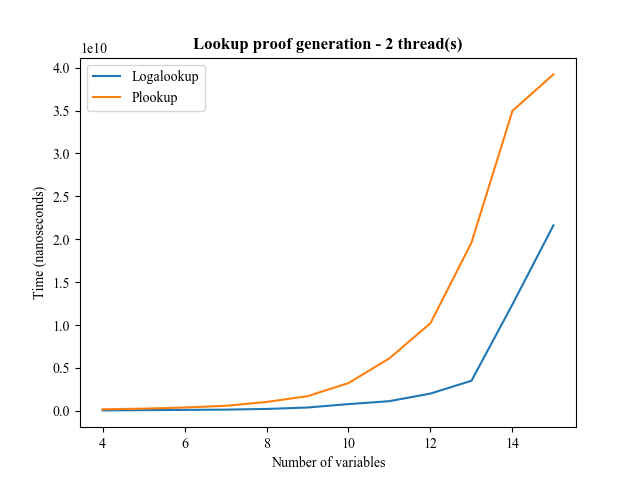
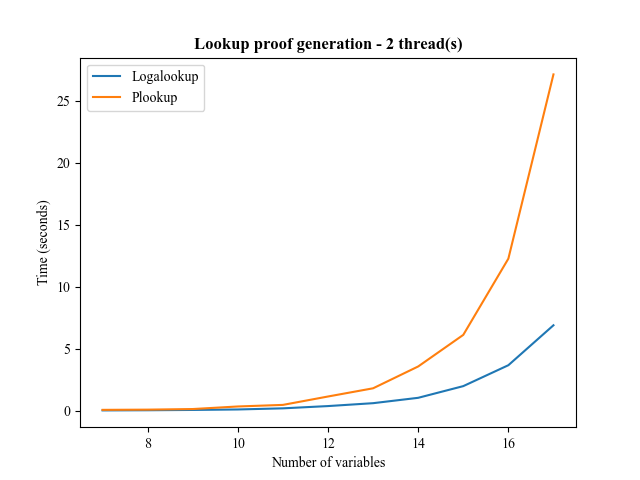
update plotter

diff --git a/scripts/plotter.py b/scripts/plotter.py
@@ -8,12 +8,18 @@ font = {'family': tnr}
 rc('font', **font)
 
 del fm.weight_dict['roman']
-fm._rebuild()
+# fm._rebuild()
 
-def get_Time (file):
+str_num_var = "Number of variables"
+
+def get_time (file, time_measure='nano'):
     lines = [list(map(int, line.split())) for line in file.split("\n")[:-1]]
     nv = [line[0] for line in lines]
     time_us = [line[1] for line in lines]
+    if time_measure == 'nano': 
+        time_us = [nano / 10**9 for nano in time_us]
+    elif time_measure == 'micro':
+        time_us = [micro / 10**6 for micro in time_us]
     return nv, time_us
     
 
@@ -21,31 +27,31 @@ def plot_comparison(num_threads, gate = "vanilla"):
     loga = open(f"hyperplonk/logalk {gate} threads {num_threads}.txt").read()
     plk = open(f"hyperplonk/plk {gate} threads {num_threads}.txt").read()
     
-    loga_nv, loga_time = get_Time (loga)
-    plk_nv, plk_time = get_Time (plk)
+    loga_nv, loga_time = get_time (loga, time_measure='micro')
+    plk_nv, plk_time = get_time (plk, time_measure='micro')
     plt.clf()
-    plt.title(f"SNARK + lookup proof generation - {num_threads} thread(s)", **font, fontweight='bold')
-    plt.ylabel("Time (microseconds)", **font)
-    plt.xlabel("Number of variables", **font)
+    plt.title(f"HyperPlonk with lookup proof generation - {num_threads} thread(s)", **font, fontweight='bold')
+    plt.ylabel("Time (seconds)", **font)  #micro before
+    plt.xlabel(str_num_var, **font)
     plt.xticks(fontname=tnr)
     plt.yticks(fontname=tnr)
     plt.plot(loga_nv, loga_time, label="Logalookup")
     plt.plot(plk_nv, plk_time, label="Plookup")
     plt.legend(prop=font_legend)
     
-    plt.savefig(f"plot-compare-{num_threads}-threads.png")
+    plt.savefig(f"plot-{gate}-compare-snark-{num_threads}-threads.png")
 
 def plot_multithread(threads, lk = "logalk", gate = "vanilla"):
     plt.clf()
     lk_str = "Logalookup" if lk == "logalk" else "Plookup"
-    plt.title(f"SNARK+{lk_str} proof generation - Multithread", **font, fontweight='bold')
-    plt.ylabel("Time (microseconds)", **font)
-    plt.xlabel("Number of variables", **font)
+    plt.title(f"HyperPlonk with {lk_str} proof generation - Multithread", **font, fontweight='bold')
+    plt.ylabel("Time (seconds)", **font)   #micro before
+    plt.xlabel(str_num_var, **font)
     plt.xticks(fontname=tnr)
     plt.yticks(fontname=tnr)
     for nt in threads:
-        file = open(f"hyperplonk/{lk} {gate} threads {nt}.txt").read()
-        nv, time = get_Time (file)
+        _file = open(f"hyperplonk/{lk} {gate} threads {nt}.txt").read()
+        nv, time = get_time (_file, time_measure='micro')
         plt.plot(nv, time, label=f"{nt} threads")
     plt.legend(prop=font_legend)
     plt.savefig(f"plot-multithread-{lk}.png")
@@ -54,12 +60,12 @@ def plot_comparison_lookup_subroutines(num_threads):
     loga = open(f"subroutines/logalk {num_threads} threads.txt").read()
     plk = open(f"subroutines/plk {num_threads} threads.txt").read()
     
-    loga_nv, loga_time = get_Time (loga)
-    plk_nv, plk_time = get_Time (plk)
+    loga_nv, loga_time = get_time (loga, time_measure='nano')
+    plk_nv, plk_time = get_time (plk, time_measure='nano')
     plt.clf()
     plt.title(f"Lookup proof generation - {num_threads} thread(s)", **font, fontweight='bold')
-    plt.ylabel("Time (nanoseconds)", **font)
-    plt.xlabel("Number of variables", **font)
+    plt.ylabel("Time (seconds)", **font)   #nano before
+    plt.xlabel(str_num_var, **font)
     plt.xticks(fontname=tnr)
     plt.yticks(fontname=tnr)
     plt.plot(loga_nv, loga_time, label="Logalookup")
@@ -72,20 +78,23 @@ def plot_multithread_lookup_subroutine(threads, lk = "logalk"):
     plt.clf()
     lk_str = "Logalookup" if lk == "logalk" else "Plookup"
     plt.title(f"{lk_str} subroutine proof generation - Multithread", **font, fontweight='bold')
-    plt.ylabel("Time (nanoseconds)", **font)
-    plt.xlabel("Number of variables", **font)
+    plt.ylabel("Time (seconds)", **font)  #nano before
+    plt.xlabel(str_num_var, **font)
     plt.xticks(fontname=tnr)
     plt.yticks(fontname=tnr)
     for nt in threads:
-        file = open(f"subroutines/{lk} {nt} threads.txt").read()
-        nv, time = get_Time (file)
+        _file = open(f"subroutines/{lk} {nt} threads.txt").read()
+        nv, time = get_time (_file, time_measure='nano')
         plt.plot(nv, time, label=f"{nt} threads")
     plt.legend(prop=font_legend)
     plt.savefig(f"plot-multithread-{lk}-subroutine.png")
 
-for nt in [1,2,4,8]:
-    plot_comparison(nt)
+for nt in [1,2,4,8,16]:
+    plot_comparison(nt, gate='vanilla')
+for nt in [1,2,4,8,16]:
+    plot_comparison(nt, gate='jellyfish')
 plot_multithread([1,2,4,8])
-for nt in [1,2,4,8]:
+for nt in [1,2,4,8,16]:
    plot_comparison_lookup_subroutines(nt)
 plot_multithread_lookup_subroutine([1,2,4,8])
+

diff --git a/subroutines/src/poly_iop/lookup/plookup_check/utils.rs b/subroutines/src/poly_iop/lookup/plookup_check/utils.rs
@@ -51,31 +51,37 @@ pub(super) fn compute_h<F: PrimeField>(
 }
 
 pub(super) fn get_primitive_polynomial(n: usize) -> Result<Vec<usize>, PolyIOPErrors> {
-    if !(2..=16).contains(&n) {
+    if n < 2 || n > 20 {
         return Err(PolyIOPErrors::InvalidProof(
-            "Only support primitive polynomial whose degree >= 2 and <= 15".to_string(),
+            "Only support primitive polynomial whose degree >= 2 and <= 20".to_string(),
         ));
     }
-    let primitive_polynomial: Vec<Vec<usize>> = vec![
-        vec![1, 1, 1],                                                 //2
-        vec![1, 0, 1, 1],                                              //3
-        vec![1, 0, 0, 1, 1],                                           //4
-        vec![1, 0, 0, 1, 0, 1],                                        //5
-        vec![1, 0, 0, 0, 0, 1, 1],                                     //6
-        vec![1, 0, 0, 0, 0, 0, 1, 1],                                  //7
-        vec![1, 0, 0, 0, 1, 1, 1, 0, 1],                               //8
-        vec![1, 0, 0, 0, 0, 1, 0, 0, 0, 1],                            //9
-        vec![1, 0, 0, 0, 0, 0, 0, 1, 0, 0, 1],                         //10
-        vec![1, 0, 0, 0, 0, 0, 0, 0, 0, 1, 0, 1],                      //11
-        vec![1, 0, 0, 0, 0, 0, 1, 0, 1, 0, 0, 1, 1],                   //12
-        vec![1, 0, 0, 0, 0, 0, 0, 0, 0, 1, 1, 0, 1, 1],                //13
-        vec![1, 0, 0, 0, 0, 0, 1, 0, 1, 0, 0, 0, 0, 1, 1],             //14
-        vec![1, 0, 0, 0, 0, 0, 0, 0, 0, 0, 0, 0, 0, 0, 1, 1],          //15
-        vec![1, 0, 0, 0, 1, 0, 0, 0, 0, 0, 0, 0, 0, 1, 0, 1, 1],       //16
-        vec![1, 0, 0, 0, 0, 0, 0, 0, 0, 0, 0, 0, 0, 0, 1, 0, 0, 1],    //17
-        vec![1, 0, 0, 0, 0, 0, 0, 0, 0, 0, 0, 1, 0, 0, 0, 0, 0, 0, 1], //18
-    ];
-    Ok(primitive_polynomial[n - 2].clone())
+    let primitive_poly = match n {
+        2 => vec![1, 1, 1],
+        3 => vec![1, 0, 1, 1],
+        4 => vec![1, 0, 0, 1, 1],
+        5 => vec![1, 0, 0, 1, 0, 1],
+        6 => vec![1, 0, 0, 0, 0, 1, 1],
+        7 => vec![1, 0, 0, 0, 0, 0, 1, 1],
+        8 => vec![1, 0, 0, 0, 1, 1, 1, 0, 1],
+        9 => vec![1, 0, 0, 0, 0, 1, 0, 0, 0, 1],
+        10 => vec![1, 0, 0, 0, 0, 0, 0, 1, 0, 0, 1],
+        11 => vec![1, 0, 0, 0, 0, 0, 0, 0, 0, 1, 0, 1],
+        12 => vec![1, 0, 0, 0, 0, 0, 1, 0, 1, 0, 0, 1, 1],
+        13 => vec![1, 0, 0, 0, 0, 0, 0, 0, 0, 1, 1, 0, 1, 1],
+        14 => vec![1, 0, 0, 0, 0, 0, 1, 0, 1, 0, 0, 0, 0, 1, 1],
+        15 => vec![1, 0, 0, 0, 0, 0, 0, 0, 0, 0, 0, 0, 0, 0, 1, 1],
+        16 => vec![1, 0, 0, 0, 1, 0, 0, 0, 0, 0, 0, 0, 0, 1, 0, 1, 1],
+        17 => vec![1, 0, 0, 0, 0, 0, 0, 0, 0, 0, 0, 0, 0, 0, 1, 0, 0, 1],
+        18 => vec![1, 0, 0, 0, 0, 0, 0, 0, 0, 0, 0, 1, 0, 0, 0, 0, 0, 0, 1],
+        19 => vec![1, 0, 0, 0, 0, 0, 0, 0, 0, 0, 0, 0, 0, 0, 1, 0, 0, 1, 1, 1],
+        20 => vec![
+            1, 0, 0, 0, 0, 0, 0, 0, 0, 0, 0, 0, 0, 0, 0, 0, 0, 1, 0, 0, 1,
+        ],
+        _ => vec![],
+    };
+  
+    Ok(primitive_poly)
 }
 
 /// g_mu(b1,...,b_mu) = (b_mu, b1', ... , b_{mu-1}')

diff --git a/hyperplonk/benches/bench.rs b/hyperplonk/benches/bench.rs
@@ -21,9 +21,9 @@ use subroutines::{
     poly_iop::PolyIOP,
 };
 
-const SUPPORTED_SIZE: usize = 16;
-const MIN_NUM_VARS: usize = 5;
-const MAX_NUM_VARS: usize = 15;
+const SUPPORTED_SIZE: usize = 18;
+const MIN_NUM_VARS: usize = 7;
+const MAX_NUM_VARS: usize = 17;
 const MIN_CUSTOM_DEGREE: usize = 1;
 const MAX_CUSTOM_DEGREE: usize = 32;
 const HIGH_DEGREE_TEST_NV: usize = 10;
@@ -134,9 +134,9 @@ fn bench_mock_circuit_zkp_helper_with_loga_lk(
     pcs_srs: &MultilinearUniversalParams<Bls12_381>,
 ) -> Result<(), HyperPlonkErrors> {
     let repetition = if nv < 10 {
-        5
+        10
     } else if nv < 20 {
-        3
+        5
     } else {
         1
     };
@@ -204,9 +204,9 @@ fn bench_mock_circuit_zkp_helper_with_plk(
     pcs_srs: &MultilinearUniversalParams<Bls12_381>,
 ) -> Result<(), HyperPlonkErrors> {
     let repetition = if nv < 10 {
-        5
+        10
     } else if nv < 20 {
-        3
+        5
     } else {
         1
     };

diff --git a/subroutines/benches/iop_bench.rs b/subroutines/benches/iop_bench.rs
@@ -289,7 +289,7 @@ fn bench_lookup_check() -> Result<(), PolyIOPErrors> {
     let thread = rayon::current_num_threads();
     let mut file = File::create(format!("logalk {thread} threads.txt")).unwrap();
 
-    for nv in 4..16 {
+    for nv in 7..18 {
         let srs = Kzg::gen_srs_for_testing(&mut rng, nv + 1)?;
         let (pcs_param, _) = Kzg::trim(&srs, None, Some(nv + 1))?;
 
@@ -391,14 +391,14 @@ fn bench_plookup_check() -> Result<(), PolyIOPErrors> {
     let thread = rayon::current_num_threads();
     let mut file = File::create(format!("plk {thread} threads.txt")).unwrap();
 
-    for nv in 4..16 {
+    for nv in 7..18 {
         let srs = Kzg::gen_srs_for_testing(&mut rng, nv + 1)?;
         let (pcs_param, _) = Kzg::trim(&srs, None, Some(nv + 1))?;
 
         let repetition = if nv < 10 {
-            5
+            10
         } else if nv < 20 {
-            2
+            5
         } else {
             1
         };

diff --git a/subroutines/src/poly_iop/lookup/lookup_check/mod.rs b/subroutines/src/poly_iop/lookup/lookup_check/mod.rs
@@ -11,6 +11,7 @@ mod util;
 use self::util::*;
 use super::structs::LogaPreprocessedTable;
 
+/// Implementation of Logalookup
 pub trait LookupCheck<E, PCS>: ZeroCheck<E::ScalarField>
 where
     E: Pairing,
